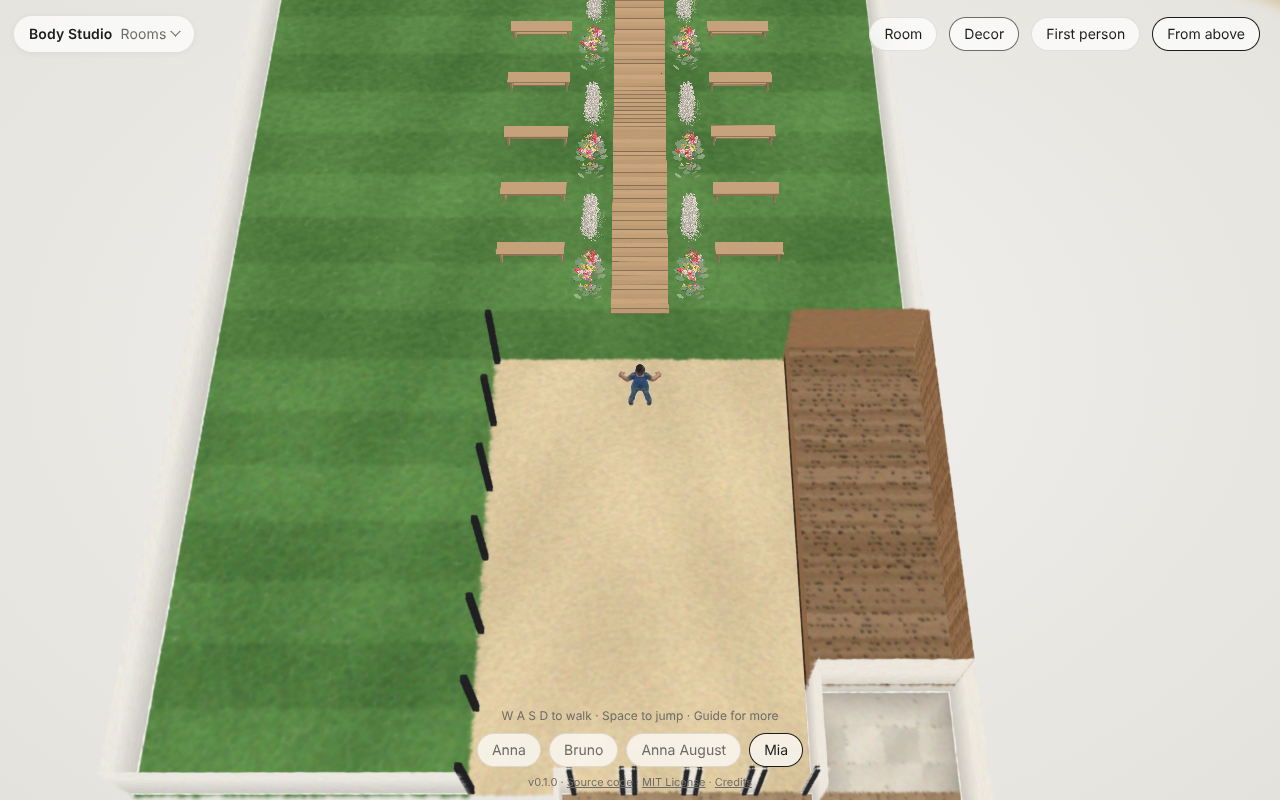
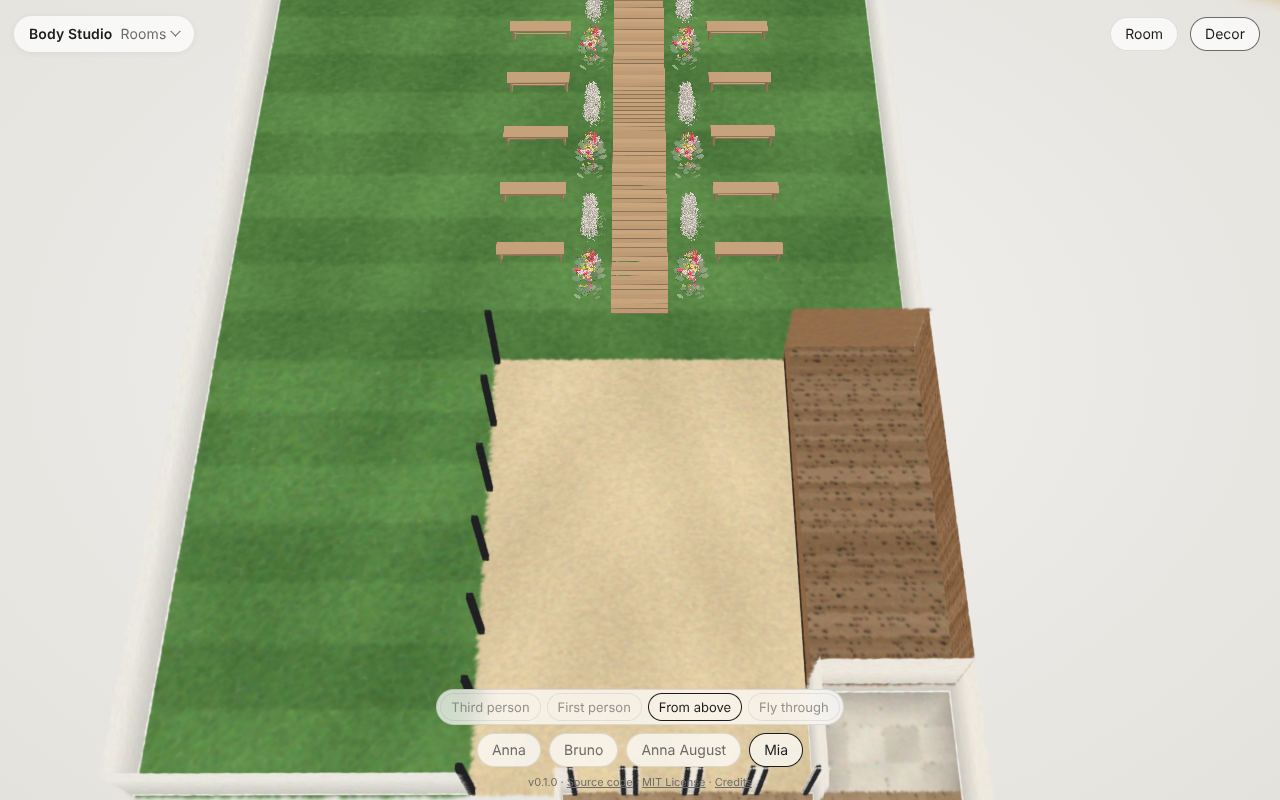
Rooms: no walk hint without the body; screenshots with the view chips
From above and flying there is no body to walk, so the "W A S D to walk"
hint is hidden. The room test lets the body stop coasting from its walk
before checking that W from above leaves it where it is. room-desktop,
venue-desktop and venue-above show the four view chips.

Claude-Session: https://claude.ai/code/session_01G9uX9d8uN745nBwS3V13Xk

diff --git a/src/body_studio/static/body.css b/src/body_studio/static/body.css
@@ -161,6 +161,7 @@ body.is-busy, body.is-busy * { cursor: progress !important; }
 .views button.on { opacity: 1; border-color: var(--text); }
 .views[hidden] { display: none; }
 .walk-hint[hidden], .with-studio .walk-hint, .with-panel .walk-hint { display: none; }
+.from-above .walk-hint, .flying .walk-hint { display: none; }   /* (no body to walk: house.js) */
 /* The Guide: a card in the middle, keys on the left, what they do on the right. */
 .guide {
   width: min(420px, calc(100vw - 32px)); max-height: calc(100vh - 32px); overflow-y: auto;

diff --git a/tests/browser/test_viewer.py b/tests/browser/test_viewer.py
@@ -457,6 +457,7 @@ class Viewer(unittest.TestCase):
         self.assertGreater(page.evaluate(high), 5, "metres over the floor")
         self.assertLess(page.evaluate("house.mesh().roomCut.value.w"), 1e8, "the ceiling taken off")
         page.wait_for_function("house.bodyHidden()")                    # (the body isn't drawn from above)
+        page.evaluate("tattooStudio.stepFor(2)")                        # (done slowing down from the walk)
         where = page.evaluate("house.where()")
         page.evaluate("tattooStudio.walkFor(0.5, 'f')")
         self.assertTrue(page.evaluate("house.fromAbove()"), "W from above")
